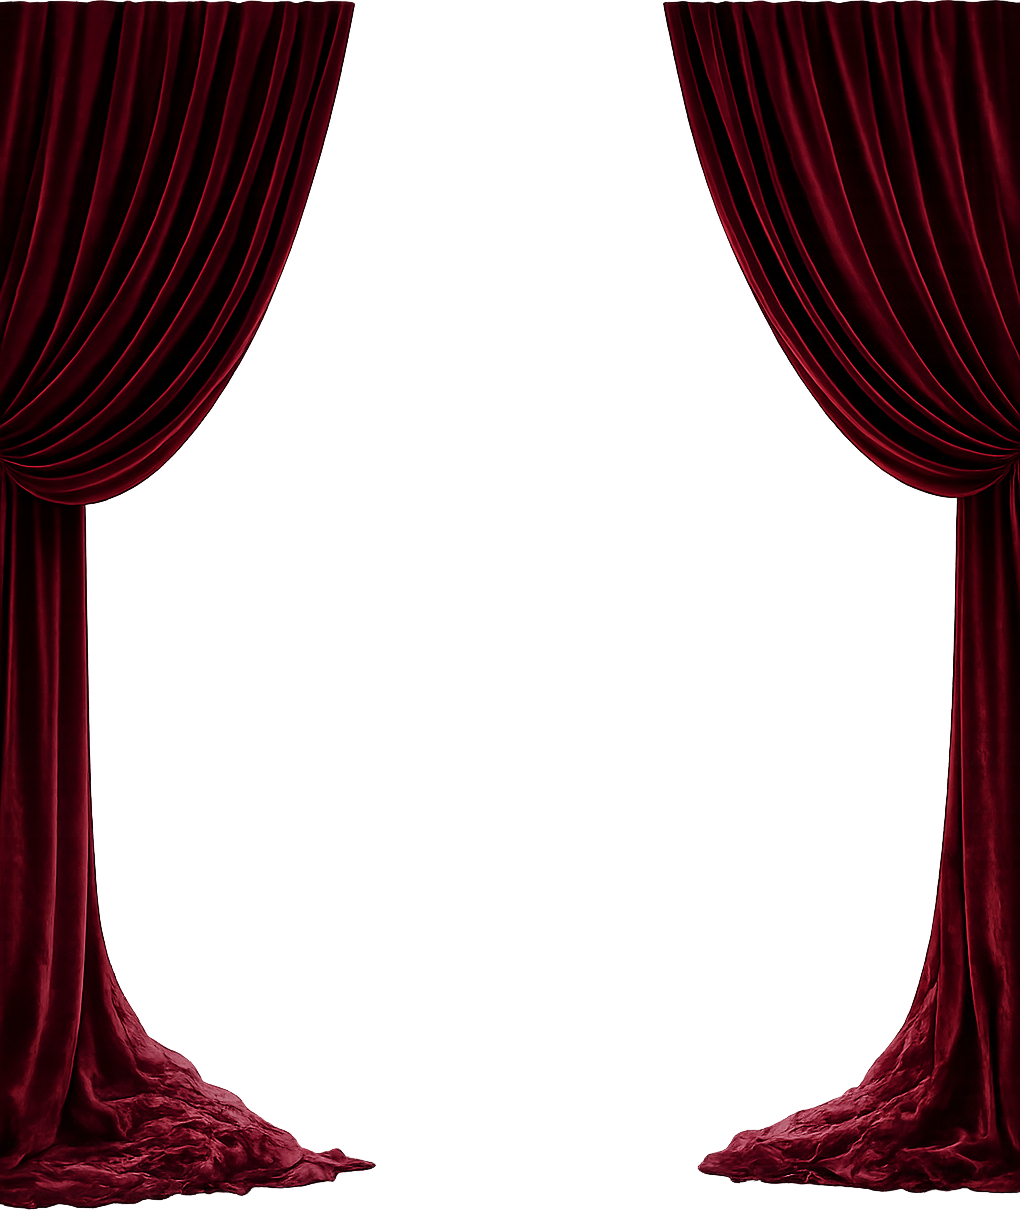
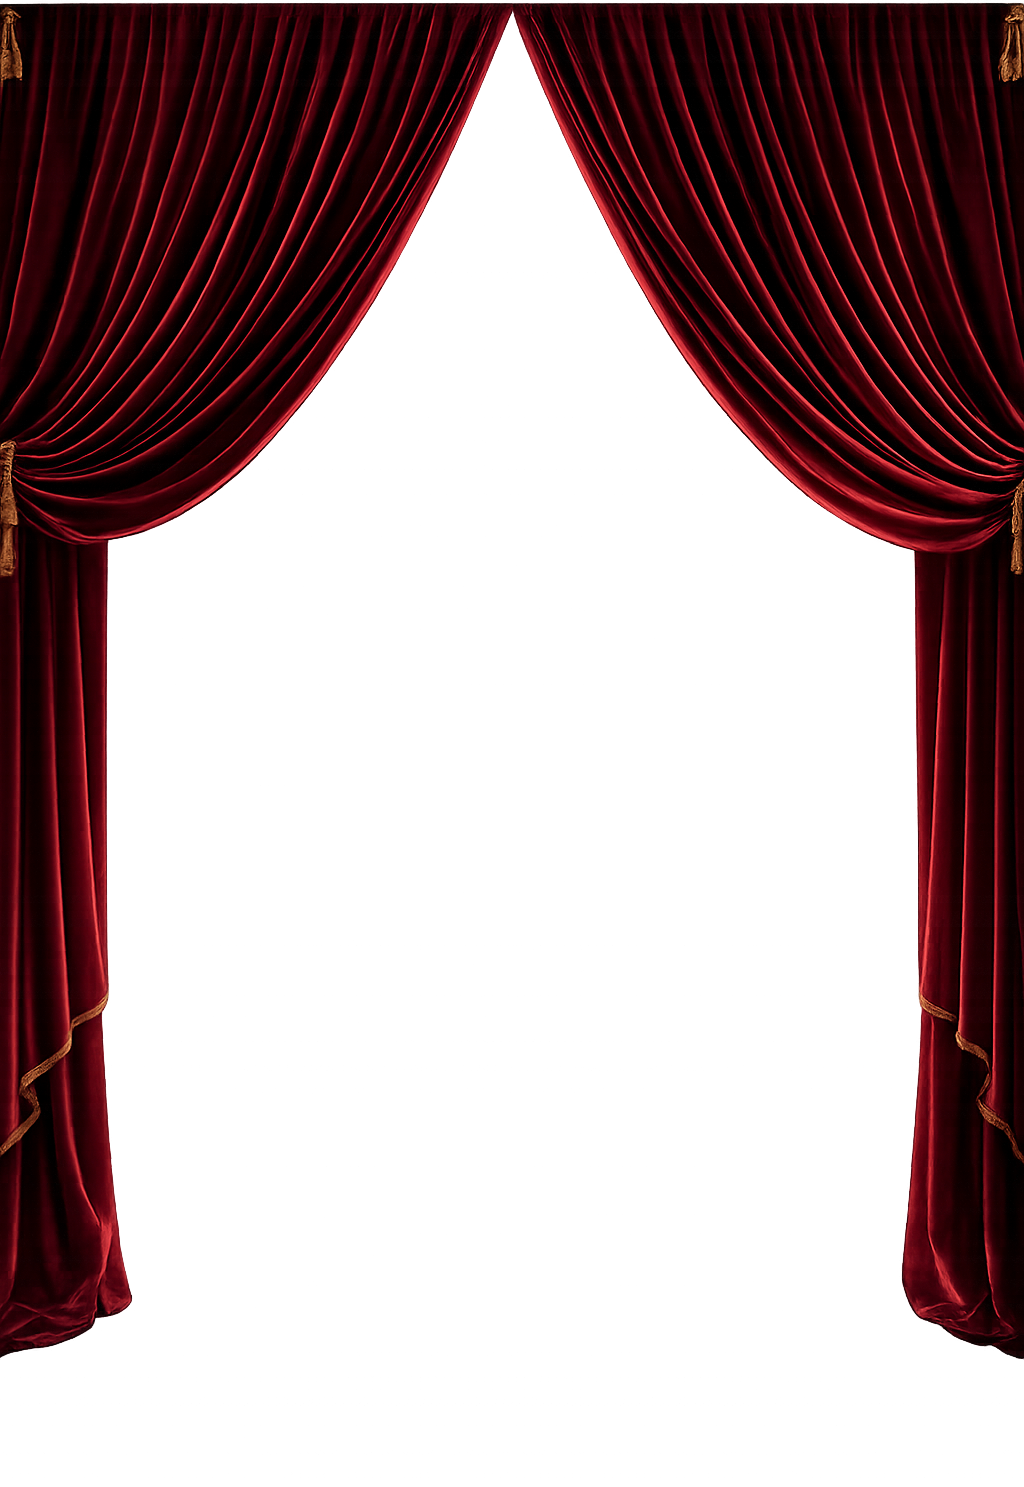
final ui

diff --git a/index.html b/index.html
@@ -15,7 +15,7 @@
 
             <img
                 class="decor decor-curtains"
-                src="long_curtains.png"
+                src="curtains.png"
                 alt=""
                 aria-hidden="true">
 
@@ -44,21 +44,16 @@
                 aria-hidden="true"> -->
 
             <div class="content">
-                <p class="bismillah">بسم الله الرحمن الرحيم</p>
-
-                <p class="verse">
-                    وَمِنْ آيَاتِهِ أَنْ خَلَقَ لَكُم مِّنْ أَنفُسِكُمْ أَزْوَاجًا
-                    <br>
-                    لِّتَسْكُنُوا إِلَيْهَا وَجَعَلَ بَيْنَكُم مَّوَدَّةً وَرَحْمَةً
-                </p>
-
+                <br><br><br>
+                <h1 class="private-title">الدعوة خاصة</h1>
+                <br>
                 <p class="praise">الحمد لله الذي تتم بنعمته الصالحات</p>
 
-                <p class="wedding-title">نتشرف بدعوتكم لحضور حفل زفاف</p>
+                <p class="wedding-title"> نتشرف بدعوتكم لحضور حفل زفاف</p>
 
                 <div class="logo-frame">
                     <img
-                        src="logo.png"
+                        src="logowd.png"
                         alt="شعار مصطفى وطاهرة">
                 </div>
 
@@ -69,18 +64,18 @@
                     </div>
 
                     <div class="detail-item">
+                        <span>الزفة</span>
+                        <strong>9:30 مساءً</strong>
+                    </div>
+
+                    <div class="detail-item">
                         <span>الموقع</span>
                         <strong>Water Lily - السهلة</strong>
                     </div>
 
-                    <div class="detail-item">
-                        <span>الزفة</span>
-                        <strong>9:30 مساءً</strong>
-                    </div>
                 </div>
 
                 <div class="note">
-                    <p>الدعوة خاصة</p>
                     <p>
                         يرجى التكرم بعدم الحضور قبل الوقت المحدد، لإتاحة الفرصة
                         لاستكمال تصوير العروسين واستقبال ضيوفنا الكرام بالشكل اللائق.
@@ -109,17 +104,17 @@
                             <input
                                 type="radio"
                                 name="attendance"
-                                value="يشرفنا حضوركم"
+                                value="سأحضر"
                                 checked>
-                            <span>الحضور</span>
+                            <span>سأحضر</span>
                         </label>
 
                         <label class="attendance-option">
                             <input
                                 type="radio"
                                 name="attendance"
-                                value="نعتذر عن عدم التمكن من الحضور">
-                            <span>عدم الحضور</span>
+                                value="أعتذر عن عدم التمكن من الحضور">
+                            <span>أعتذر عن عدم التمكن من الحضور</span>
                         </label>
                     </div>
 

diff --git a/style.css b/style.css
@@ -157,19 +157,15 @@ body {
     margin: 0 auto;
 }
 
-.bismillah {
-    margin-bottom: 18px;
-    font-size: clamp(1.08rem, 2.4vw, 1.42rem);
+.private-title {
+    margin-bottom: 16px;
+    font-size: clamp(1.65rem, 4vw, 2.35rem);
     font-weight: 800;
+    line-height: 1.4;
     color: #4f0b1b;
-}
-
-.verse {
-    margin: 0 auto 24px;
-    max-width: 560px;
-    font-size: clamp(0.82rem, 1.8vw, 0.98rem);
-    line-height: 2.05;
-    color: #3e1118;
+    text-shadow:
+        0 1px 0 rgba(255, 247, 236, 0.72),
+        0 10px 24px rgba(83, 8, 23, 0.14);
 }
 
 .praise {
@@ -246,14 +242,7 @@ body {
     padding: 0 6px;
 }
 
-.note p:first-child {
-    margin-bottom: 8px;
-    font-size: 1rem;
-    font-weight: 800;
-    color: #4f0b1b;
-}
-
-.note p:last-child {
+.note p {
     font-size: clamp(0.8rem, 1.7vw, 0.9rem);
     line-height: 1.95;
     color: #5b3540;
@@ -608,10 +597,6 @@ body {
 
     .decor-candles-right {
         right: 8px;
-    }
-
-    .verse {
-        line-height: 1.9;
     }
 
     .details {

diff --git a/script.js b/script.js
@@ -24,8 +24,8 @@ const rsvpSubmit =
 const rsvpMessage =
     document.getElementById("rsvpMessage");
 
-const ATTENDING_VALUE = "يشرفنا حضوركم";
-const NOT_ATTENDING_VALUE = "نعتذر عن عدم التمكن من الحضور";
+const ATTENDING_VALUE = "سأحضر";
+const NOT_ATTENDING_VALUE = "أعتذر عن عدم التمكن من الحضور";
 
 let isPlaying = false;
 let firstInteractionBound = false;